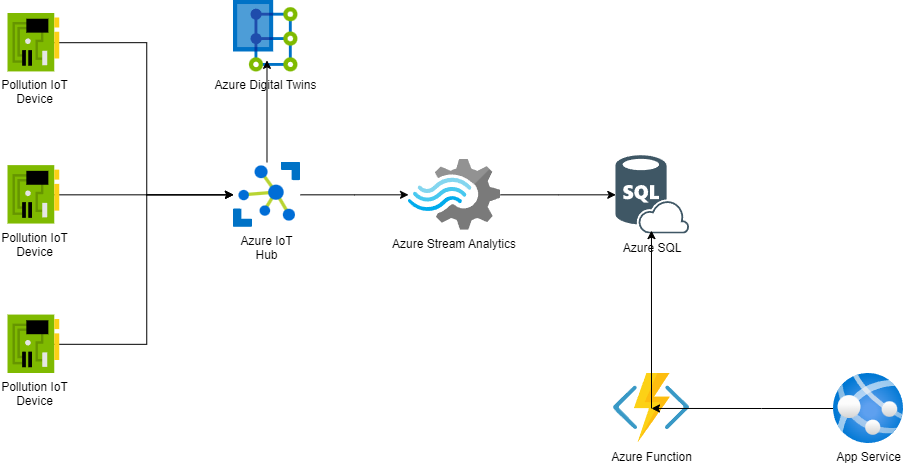
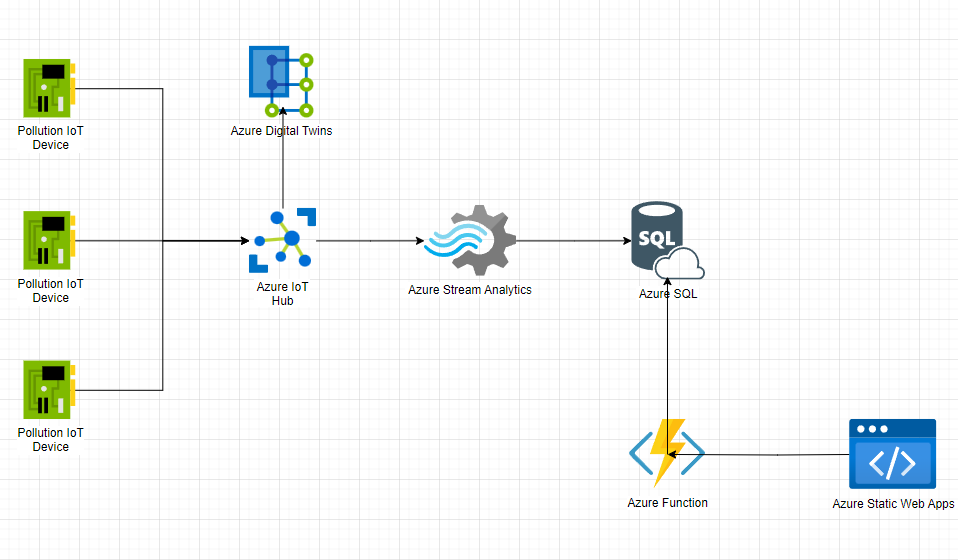
fix

diff --git a/README.md b/README.md
@@ -36,15 +36,15 @@ Una conceria utilizza dispositivi IoT collegati all'hub IoT di Azure per una ges
 #### Azure Static Web Apps or App Service
 La scelta di utilizzare Azure Static Web Apps anziché Azure App Service per l'erogazione dell'interfaccia utente è stata guidata da diverse considerazioni. In primo luogo, Azure Static Web Apps offre una soluzione altamente scalabile e a basso costo per l'hosting di siti web statici, il che si adatta perfettamente alle esigenze di tale  progetto. Inoltre, Azure Static Web Apps integra nativamente con altri servizi Azure, come Azure Functions, semplificando l'integrazione dell'interfaccia utente con la logica di backend. Questa integrazione nativa consente una maggiore efficienza nello sviluppo e nella gestione dell'applicazione, riducendo il tempo e le risorse necessarie per il deployment e la manutenzione. Infine, Azure Static Web Apps supporta funzionalità come il controllo del codice sorgente tramite GitHub e l'automazione dei workflow di sviluppo. Queste caratteristiche ci hanno convinto che Azure Static Web Apps fosse la scelta ideale per fornire un'interfaccia utente intuitiva e efficiente per il sistema di monitoraggio ambientale.
 
-###APIs
+### APIs
 #### Azure Functions o App Service
 La scelta di utilizzare Azure Functions anziché Azure App Service per la gestione delle operazioni di backend è stata guidata principalmente dalla natura delle esigenze di elaborazione dei dati. Azure Functions offre un approccio serverless alla gestione delle operazioni di backend, consentendo una scalabilità automatica e una gestione dei costi ottimizzata in base al consumo effettivo delle risorse computazionali. Questo è particolarmente vantaggioso per un sistema di monitoraggio ambientale, in cui possono verificarsi fluttuazioni significative nel carico di lavoro in base agli eventi ambientali o alle attività operative. Inoltre, Azure Functions permette un'integrazione diretta con altri servizi Azure, come Azure IoT Hub e Azure SQL Database, facilitando lo sviluppo e il deployment di soluzioni completamente integrate. Infine, l'approccio senza server di Azure Functions elimina la necessità di gestire l'infrastruttura sottostante, consentendo agli sviluppatori di concentrarsi esclusivamente sulla logica di business e sullo sviluppo delle funzionalità senza preoccuparsi della gestione dei server e delle risorse di calcolo.
 
-###Database
+### Database
 ### Azure SQL o CosmosDB
 La decisione di utilizzare Azure SQL Database anziché Azure Cosmos DB per la gestione dei dati è stata basata sulle specifiche esigenze del progetto. Azure SQL Database è stato preferito per la sua struttura tabellare e la sua capacità di gestire dati strutturati in modo efficiente, fornendo una soluzione affidabile e scalabile per l'archiviazione dei dati generati dai dispositivi IoT. Questo approccio si adatta bene al sistema di monitoraggio ambientale, in cui i dati raccolti sono principalmente strutturati e richiedono una modellazione relazionale per analisi e interrogazioni efficaci. Inoltre, Azure SQL Database offre un'ampia gamma di strumenti per la gestione dei dati, inclusi strumenti di backup e ripristino, sicurezza avanzata e integrazione con altre soluzioni Azure. Questi fattori hanno portato alla scelta di Azure SQL Database come il database ideale per il progetto.
 
-## Azure IoT Hub
+### Azure IoT Hub
 La scelta di utilizzare Azure IoT Hub per la gestione dei dispositivi IoT è stata guidata da diverse motivazioni valide. Innanzitutto, Azure IoT Hub fornisce funzionalità specificamente progettate per la gestione dei dispositivi IoT, garantendo una connessione affidabile e una comunicazione bidirezionale con i dispositivi distribuiti in un ambiente conciario. Questo è essenziale per assicurare la raccolta affidabile e in tempo reale dei dati critici sull'ambiente. Inoltre, Azure IoT Hub offre un'ampia gamma di strumenti per la sicurezza e la gestione dei dispositivi. Infine, l'integrazione con Azure Digital Twins consente una rappresentazione digitale accurata e in tempo reale degli asset fisici presenti nell'ambiente conciario, fornendo una visione completa e dettagliata che facilita la gestione e l'ottimizzazione delle risorse.
 
 ## Architettura del Progetto
